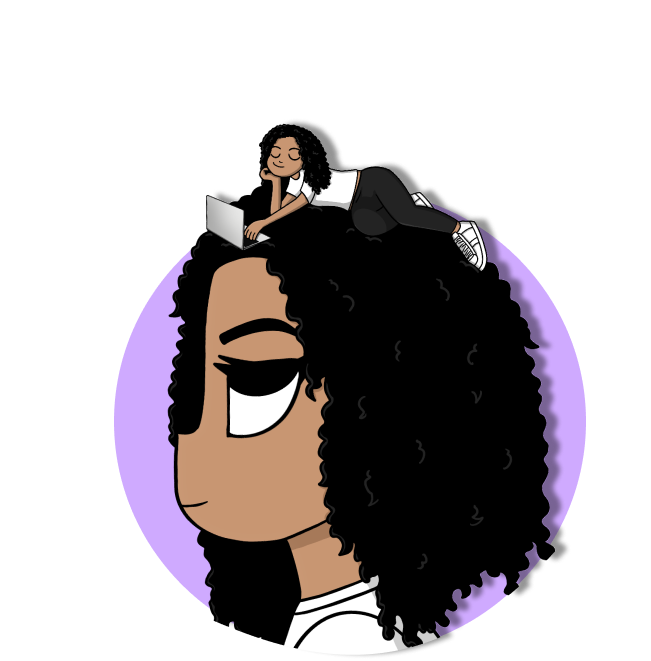
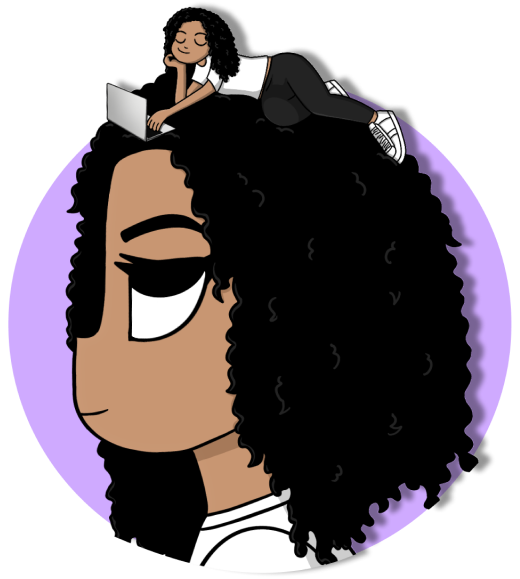
Add animation to hero image and background gradients

diff --git a/MyPortfolio/src/components/Hero/Hero.module.css b/MyPortfolio/src/components/Hero/Hero.module.css
@@ -1,5 +1,51 @@
 @import "../../vars.css";
+.heroimg{
+    width: 35%;
+    z-index: 1;
 
+    animation-name: floating;
+    animation-duration: 3s;
+    animation-iteration-count: infinite;
+    animation-timing-function: ease-in-out;
+}
+@keyframes floating{
+    0% {
+        transform: translate(0, 0px);
+    }
+    50% {
+        transform: translate(0, 10px);
+    }
+    100% {
+        transform: translate(0, 0px);
+    }
+}
+
+.topBlur{
+    position: absolute;
+    width: 50vw;
+    height: 50vw;
+    min-width: 350px;
+    min-width: 350px;
+    top: -128px;
+    left: -10vw;
+    border-radius: 764px;
+    background: rgba(207,170,255,0.3);
+    filter: blur(100px);
+    z-index: 0;
+}
+.bottomBlur{
+    position: absolute;
+    width: 70vw;
+    height: 50vw;
+    min-width: 350px;
+    min-width: 250px;
+    top: 246px;
+    right: -25vw;
+    border-radius: 764px;
+    background: rgba(207,170,255,0.3);
+    filter: blur(100px);
+    z-index: 0;
+}
 .container {
     position: relative;
     display: flex;
@@ -22,10 +68,39 @@
 .title{
     font-family: 'Poppins', sans-serif;
     font-weight: 800;
-    font-size: 50px;
+    font-size: 72px;
+    margin-bottom: 33px;
+    background: linear-gradient(90deg, rgba(255,255,255,1)70%, rgba(255,255,255,0) 120%);
+    -webkit-text-fill-color: transparent;
+    -webkit-background-clip: text;
+
 }
 
 .description{
-    font-size: 24px;
+    font-size: 30px;
     font-weight: 400;
+    margin-bottom: 52px;
 }
+.btncontainer{
+    display:flex;
+    gap: 2rem;
+}
+
+button{
+    width: 184px;
+    height: 57px;
+    border-radius: 25px;
+    font-size: 20px;
+}
+.leftbtn{
+    border-style: none;
+    font-size: 20px;
+    background-color: #7C6699;
+}
+.rightbtn{
+    border-style: solid;
+    border-width: 3px;
+    background-color: transparent;
+    border-color: #CFAAFF;
+}
+

diff --git a/MyPortfolio/src/components/Hero/Hero.jsx b/MyPortfolio/src/components/Hero/Hero.jsx
@@ -11,12 +11,12 @@ export const Hero = () => {
                 Hiya There! <br/>It's Me Makayla
             </h1>
             <p className={styles.description}>I'm a full-stack developer.<br/> Reach out if you'd like to learn more!</p>
-            <div className={styles.btnContainer}>
-                <button>View Projects</button>
-                <button>Download CV</button>
+            <div className={styles.btncontainer}>
+                <button className={styles.leftbtn}>View Projects</button>
+                <button className={styles.rightbtn}>Download CV</button>
             </div>
         </div>
-        <img src={getImageUrl("hero/hero-pic.png")} alt="Hero image of me" className={styles.heroImg}></img>
+        <img src={getImageUrl("hero/hero-pic.png")} alt="Hero image of me" className={styles.heroimg}></img>
         <div className={styles.topBlur}></div>
         <div className={styles.bottomBlur}></div>
     </section>

diff --git a/MyPortfolio/src/index.css b/MyPortfolio/src/index.css
@@ -4,4 +4,5 @@
     padding: 0;
     font-family: "Lato", Arial, Helvetica, sans-serif; 
     font-weight: 400;
+    color: var(--color-text);
 }
